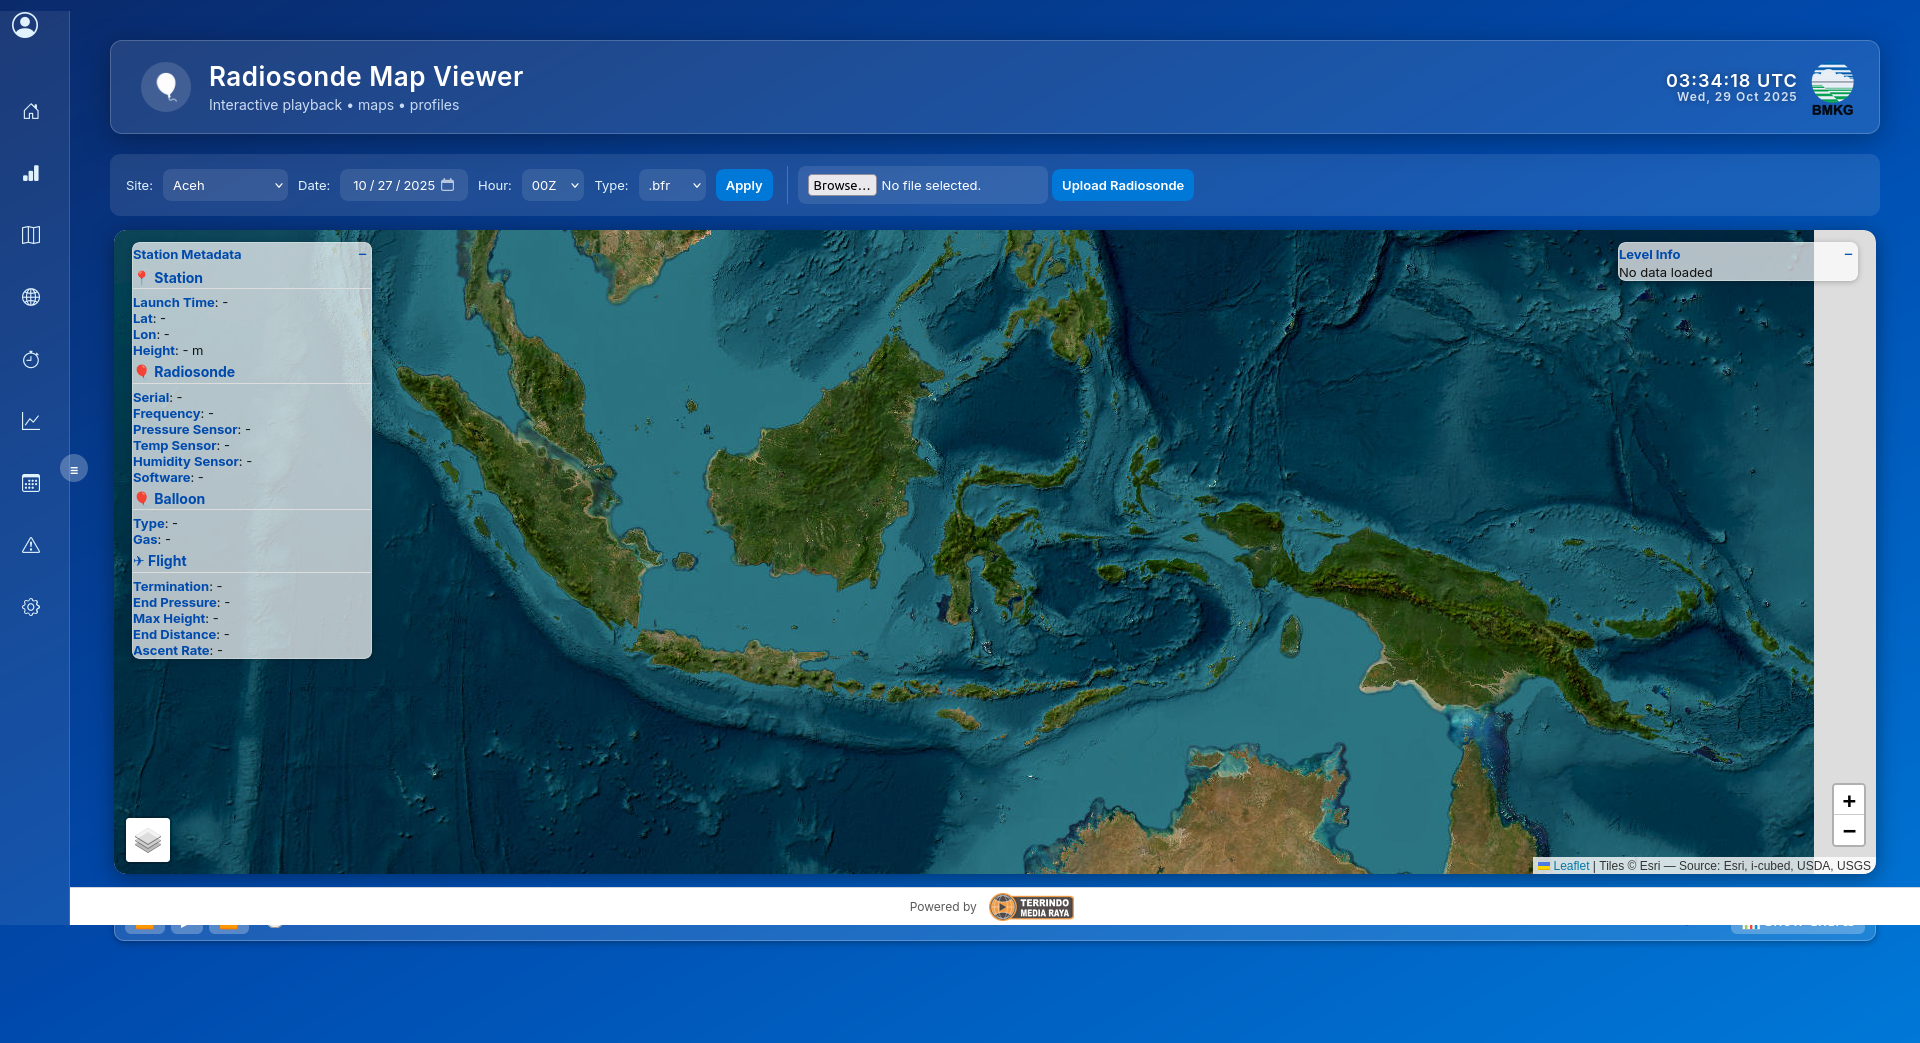
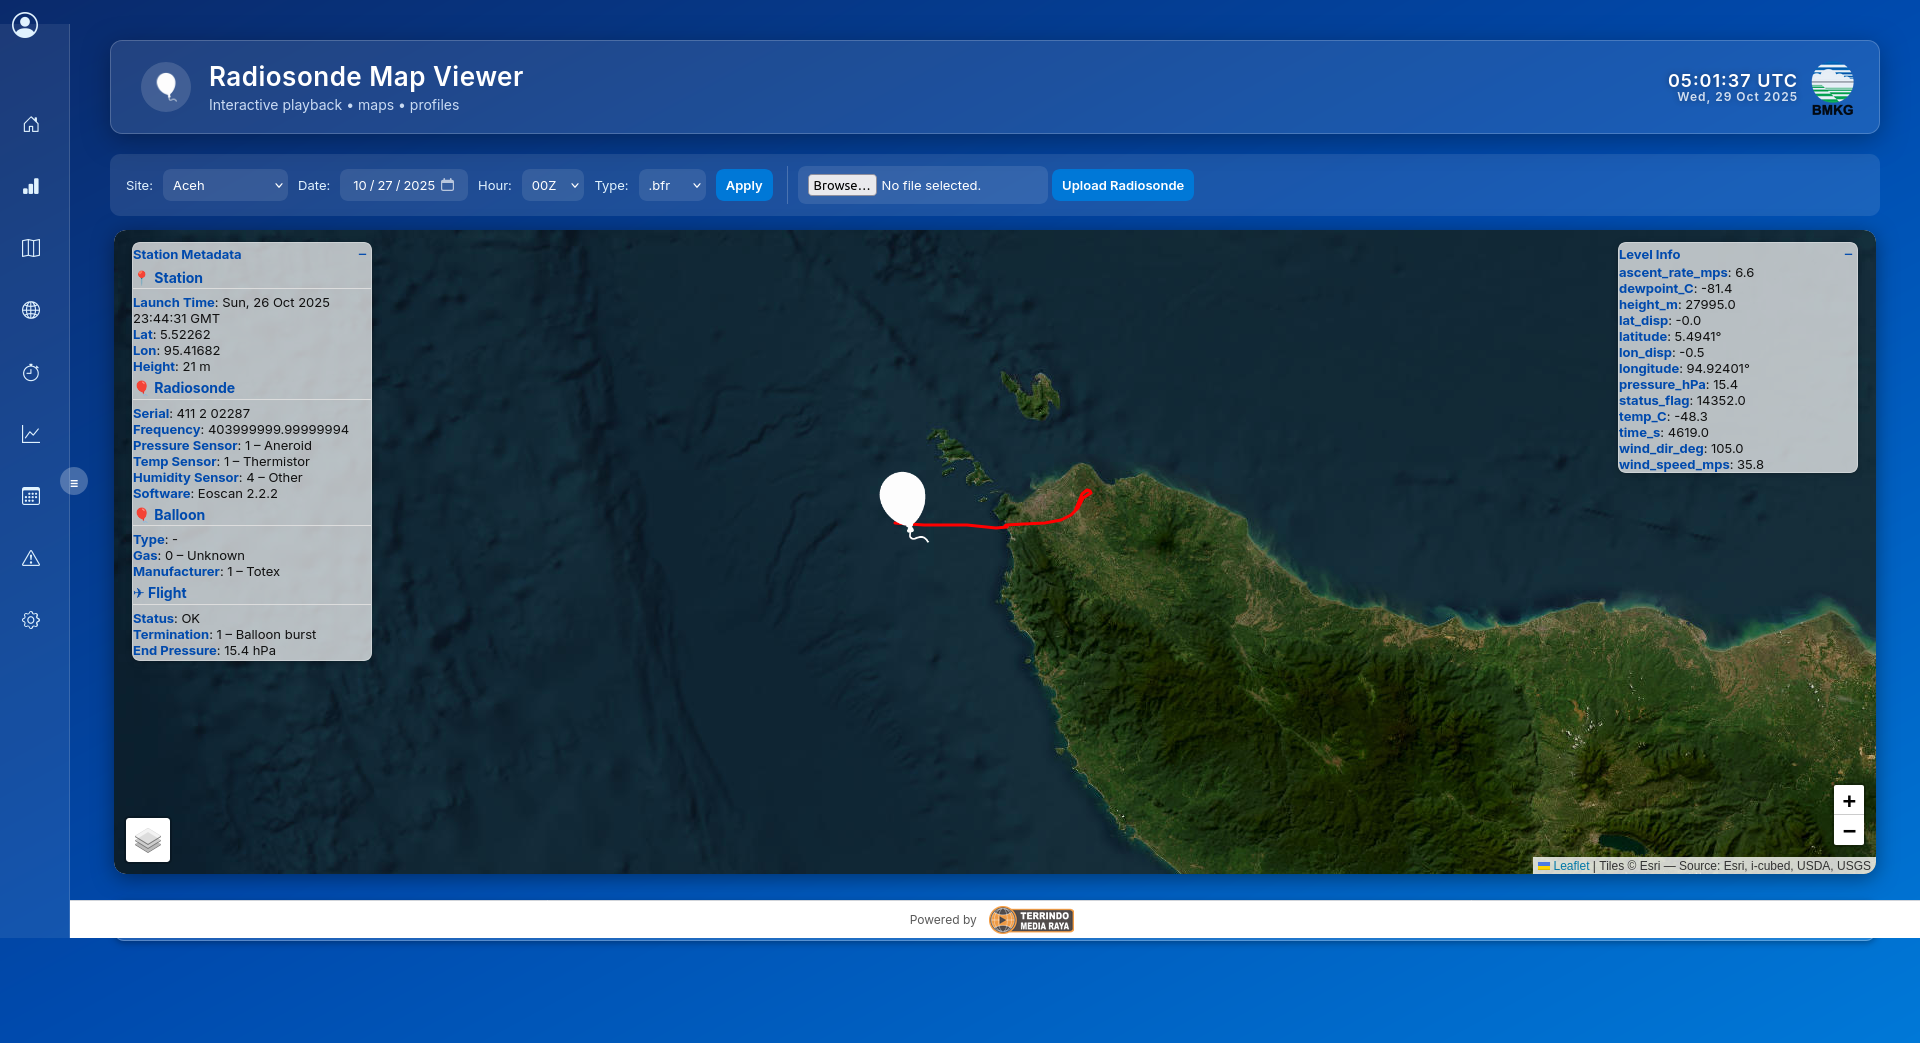
edit user guide

diff --git a/templates/user_guide.html b/templates/user_guide.html
@@ -191,6 +191,12 @@
       transition: color 0.2s;
     }
     .toc-popup a:hover { color: #00b4ff; }
+
+    .global-nav-controls {
+      opacity: 0;
+      transition: opacity 0.5s ease;
+    }
+
   </style>
 </head>
 
@@ -1087,6 +1093,30 @@
         toggleTOC();
       };
     });
+    // === 🕒 Auto-hide Global Navigation Controls ===
+    const navControls = document.querySelector('.global-nav-controls');
+    let navTimeout;
+  
+    function showNav() {
+      navControls.style.opacity = '1';
+      navControls.style.pointerEvents = 'auto';
+      clearTimeout(navTimeout);
+      navTimeout = setTimeout(() => {
+        navControls.style.opacity = '0';
+        navControls.style.pointerEvents = 'none';
+      }, 2500); // ⏳ sembunyikan setelah 2.5 detik tanpa gerakan mouse
+    }
+  
+    // Tampilkan saat mouse bergerak di mana pun
+    document.addEventListener('mousemove', showNav);
+  
+    // Inisialisasi: sembunyikan setelah halaman dimuat
+    window.addEventListener('DOMContentLoaded', () => {
+      navControls.style.transition = 'opacity 0.5s ease';
+      navControls.style.opacity = '0';
+      navControls.style.pointerEvents = 'none';
+    });
+  
   </script>
 </body>
 </html>
